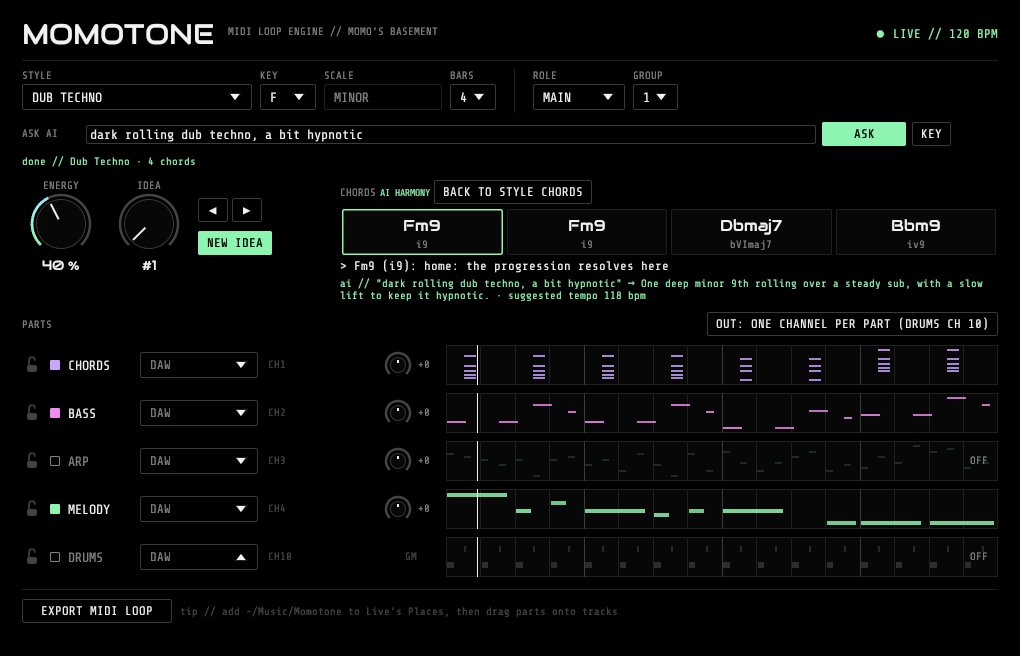
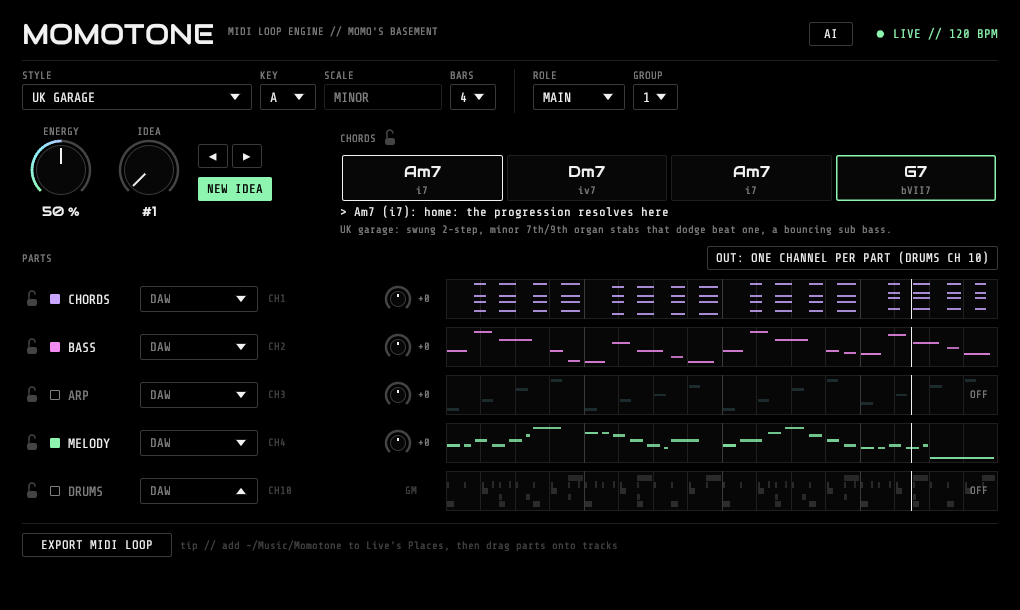
feat(ai): move Ask AI into an optional panel behind a header button
The Ask AI row took a full line of the main screen for something you use
now and then. It now lives in a floating panel opened by a small AI
button next to the tempo: closed by default, it closes on Escape, a click
outside, or once Claude's chords are set. The answer is picked up even
with the panel closed, and the button shows "ai ..." while Claude thinks.
The window goes back to its previous height.

Claude-Session: https://claude.ai/code/session_01C857HpawJoWnTXay7JN1eX

diff --git a/crates/momotone-plugin/src/editor.rs b/crates/momotone-plugin/src/editor.rs
@@ -24,7 +24,7 @@ use std::sync::Arc;
 use std::time::{Duration, Instant};
 
 pub const WIDTH: u32 = 1020;
-pub const HEIGHT: u32 = 656;
+pub const HEIGHT: u32 = 610;
 
 const BG: Color32 = Color32::from_rgb(0x00, 0x00, 0x00);
 const PANEL: Color32 = Color32::from_rgb(0x07, 0x07, 0x07);
@@ -94,6 +94,10 @@ type AiReply = Arc<std::sync::Mutex<Option<Result<momotone_engine::PatternSpec, 
 /// The AI prompt box.
 #[derive(Default)]
 struct AskUi {
+    /// The AI panel is open (it's optional: closed, nothing of it shows on the main screen).
+    open: bool,
+    /// Where the header's AI button is, to hang the panel under it.
+    anchor: Option<Rect>,
     prompt: String,
     key_input: String,
     editing_key: bool,
@@ -232,7 +236,7 @@ fn draw(ctx: &egui::Context, setter: &ParamSetter, data: &mut EditorData, params
     egui::CentralPanel::default().frame(frame).show(ctx, |ui| {
         ui.spacing_mut().item_spacing = vec2(8.0, 8.0);
         let tempo_hint = data.cache.as_ref().map_or(120.0, |c| c.1.tempo);
-        header(ui, tempo_hint, shared);
+        header(ui, tempo_hint, shared, (!follower).then_some(&mut data.ask));
         rule(ui);
 
         let cached = view.and(data.cache.clone());
@@ -263,9 +267,6 @@ fn draw(ctx: &egui::Context, setter: &ParamSetter, data: &mut EditorData, params
             return;
         };
 
-        if !follower {
-            ask_row(ui, setter, params, &mut data.ask);
-        }
         ui.add_space(4.0);
         if follower {
             follower_body(ui, setter, data, params, &plan, &pattern, &settings, part, shared, hw);
@@ -273,6 +274,13 @@ fn draw(ctx: &egui::Context, setter: &ParamSetter, data: &mut EditorData, params
             main_body(ui, setter, data, params, &plan, &pattern, &settings, shared, hw);
         }
     });
+
+    if !follower {
+        poll_ask(ctx, setter, params, &mut data.ask);
+        if data.ask.open {
+            ask_panel(ctx, &mut data.ask);
+        }
+    }
 }
 
 fn rule(ui: &mut Ui) {
@@ -280,7 +288,7 @@ fn rule(ui: &mut Ui) {
     ui.painter().rect_filled(r, 0.0_f32, LINE);
 }
 
-fn header(ui: &mut Ui, tempo_hint: f64, shared: &UiShared) {
+fn header(ui: &mut Ui, tempo_hint: f64, shared: &UiShared, ask: Option<&mut AskUi>) {
     ui.horizontal(|ui| {
         ui.label(RichText::new("MOMOTONE").font(display(28.0)).color(TEXT));
         ui.add_space(6.0);
@@ -296,6 +304,15 @@ fn header(ui: &mut Ui, tempo_hint: f64, shared: &UiShared) {
                 ui.painter().circle_filled(r.center(), 3.5, MINT);
             } else {
                 ui.label(caps(&format!("signal acquisition... // {tempo:.0} bpm"), 12.0, DIM));
+            }
+            if let Some(a) = ask {
+                ui.add_space(14.0);
+                let label = if a.pending.is_some() { "ai ..." } else { "ai" };
+                let r = btn(ui, label, a.open, MINT, 44.0).on_hover_text("Ask AI (optional): describe a vibe, Claude sets the style, key, energy and chords");
+                if r.clicked() {
+                    a.open = !a.open;
+                }
+                a.anchor = Some(r.rect);
             }
         });
     });
@@ -413,11 +430,9 @@ fn link_selectors(ui: &mut Ui, setter: &ParamSetter, params: &MomotoneParams, fo
 
 // ------------------------------------------------------------------ AI prompt
 
-fn ask_row(ui: &mut Ui, setter: &ParamSetter, params: &MomotoneParams, a: &mut AskUi) {
-    let has_key = *a
-        .has_key
-        .get_or_insert_with(|| ai::load_config().api_key.is_some());
-
+/// Picks up Claude's answer (also with the panel closed): sets the style, key, energy, bars
+/// and the progression.
+fn poll_ask(ctx: &egui::Context, setter: &ParamSetter, params: &MomotoneParams, a: &mut AskUi) {
     // An answer came back: set the style, key, energy, bars and the progression.
     if let Some((prompt, slot)) = &a.pending {
         let done = slot.lock().ok().and_then(|mut s| s.take());
@@ -440,103 +455,113 @@ fn ask_row(ui: &mut Ui, setter: &ParamSetter, params: &MomotoneParams, a: &mut A
                         if let Ok(mut h) = params.ai.write() {
                             *h = Some(applied.harmony);
                         }
-                        (
-                            format!("done // {} · {n} chords", STYLES[applied.style].label),
-                            true,
-                        )
+                        // Done: the chord strip shows the result, the panel gets out of the way.
+                        a.open = false;
+                        (format!("done // {} · {n} chords", STYLES[applied.style].label), true)
                     }
                     Err(e) => (e, false),
                 },
             );
         } else {
-            ui.ctx().request_repaint();
+            ctx.request_repaint();
         }
     }
+}
 
-    ui.horizontal(|ui| {
-        ui.spacing_mut().item_spacing.x = 6.0;
-        let (r, _) = ui.allocate_exact_size(vec2(58.0, 26.0), Sense::hover());
-        ui.painter().text(
-            r.left_center(),
-            Align2::LEFT_CENTER,
-            "ASK AI",
-            mono(11.0),
-            DIM,
-        );
-
-        if !has_key || a.editing_key {
-            let edit = egui::TextEdit::singleline(&mut a.key_input)
-                .password(true)
-                .hint_text(RichText::new("paste your Claude API key (sk-ant-...)").color(FAINT))
-                .font(mono(13.0))
-                .desired_width(340.0);
-            let resp = ui.add(edit);
-            let save = btn(ui, "save key", true, MINT, 0.0).clicked()
-                || (resp.lost_focus() && ui.input(|i| i.key_pressed(egui::Key::Enter)));
-            if save && !a.key_input.trim().is_empty() {
-                a.status = Some(match ai::save_api_key(&a.key_input) {
-                    Ok(_) => ("key saved on this computer (not in your set)".into(), true),
-                    Err(e) => (format!("couldn't save the key: {e}"), false),
+/// The optional AI panel, floating under the header's AI button.
+fn ask_panel(ctx: &egui::Context, a: &mut AskUi) {
+    let has_key = *a.has_key.get_or_insert_with(|| ai::load_config().api_key.is_some());
+    let w = 560.0;
+    let pos = a.anchor.map_or(Pos2::new(WIDTH as f32 - w - 22.0, 60.0), |r| Pos2::new(r.right() - w, r.bottom() + 8.0));
+    let resp = egui::Area::new(egui::Id::new("ask-ai"))
+        .order(egui::Order::Foreground)
+        .fixed_pos(pos)
+        .show(ctx, |ui| {
+            egui::Frame::NONE.fill(BG).stroke(Stroke::new(1.0_f32, MINT)).inner_margin(egui::Margin::same(14)).show(ui, |ui| {
+                ui.set_width(w - 28.0);
+                ui.spacing_mut().item_spacing = vec2(6.0, 8.0);
+                ui.horizontal(|ui| {
+                    ui.label(caps("ask ai // optional", 12.0, MINT));
+                    ui.with_layout(Layout::right_to_left(Align::Center), |ui| {
+                        if btn(ui, "close", false, MINT, 0.0).clicked() {
+                            a.open = false;
+                        }
+                    });
                 });
-                a.key_input.clear();
-                a.editing_key = false;
-                a.has_key = None;
-            }
-            if has_key && btn(ui, "cancel", false, MINT, 0.0).clicked() {
-                a.editing_key = false;
-            }
-            if !has_key {
-                ui.label(caps("get one at platform.claude.com", 10.0, FAINT));
-            }
-        } else {
-            let busy = a.pending.is_some();
-            let field = egui::TextEdit::singleline(&mut a.prompt)
-                .hint_text(
-                    RichText::new("describe a vibe: dark rolling dub techno, a bit hypnotic")
-                        .color(FAINT),
-                )
-                .font(mono(13.0))
-                .desired_width(ui.available_width() - 190.0);
-            let resp = ui.add_enabled(!busy, field);
-            let go = btn(
-                ui,
-                if busy { "thinking..." } else { "ask" },
-                !busy,
-                MINT,
-                84.0,
-            )
-            .clicked()
-                || (resp.lost_focus() && ui.input(|i| i.key_pressed(egui::Key::Enter)));
-            if go && !busy && !a.prompt.trim().is_empty() {
-                let prompt = a.prompt.trim().to_string();
-                let slot = Arc::new(std::sync::Mutex::new(None));
-                let out = slot.clone();
-                let ctx = ui.ctx().clone();
-                let asked = prompt.clone();
-                std::thread::spawn(move || {
-                    let result = ai::ask(&ai::load_config(), &asked);
-                    if let Ok(mut s) = out.lock() {
-                        *s = Some(result);
+                ui.label(caps("describe a vibe: claude sets style, key, energy and chords. you can always go back to the style's chords.", 10.0, DIM));
+
+                if !has_key || a.editing_key {
+                    ui.horizontal(|ui| {
+                        let edit = egui::TextEdit::singleline(&mut a.key_input)
+                            .password(true)
+                            .hint_text(RichText::new("paste your Claude API key (sk-ant-...)").color(FAINT))
+                            .font(mono(13.0))
+                            .desired_width(ui.available_width() - 170.0);
+                        let resp = ui.add(edit);
+                        let save = btn(ui, "save key", true, MINT, 0.0).clicked() || (resp.lost_focus() && ui.input(|i| i.key_pressed(egui::Key::Enter)));
+                        if save && !a.key_input.trim().is_empty() {
+                            a.status = Some(match ai::save_api_key(&a.key_input) {
+                                Ok(_) => ("key saved on this computer (not in your set)".into(), true),
+                                Err(e) => (format!("couldn't save the key: {e}"), false),
+                            });
+                            a.key_input.clear();
+                            a.editing_key = false;
+                            a.has_key = None;
+                        }
+                        if has_key && btn(ui, "cancel", false, MINT, 0.0).clicked() {
+                            a.editing_key = false;
+                        }
+                    });
+                    if !has_key {
+                        ui.label(caps("needs your own claude api key: get one at platform.claude.com", 10.0, FAINT));
                     }
-                    ctx.request_repaint();
-                });
-                a.pending = Some((prompt, slot));
-                a.status = Some(("asking claude...".into(), true));
-            }
-            if btn(ui, "key", false, MINT, 0.0)
-                .on_hover_text("Change the Claude API key")
-                .clicked()
-            {
-                a.editing_key = true;
-            }
-        }
-    });
-    if let Some((msg, ok)) = &a.status {
-        ui.label(
-            RichText::new(msg)
-                .font(mono(11.0))
-                .color(if *ok { MINT } else { WARN }),
-        );
+                } else {
+                    ui.horizontal(|ui| {
+                        let busy = a.pending.is_some();
+                        let field = egui::TextEdit::singleline(&mut a.prompt)
+                            .hint_text(RichText::new("dark rolling dub techno, a bit hypnotic").color(FAINT))
+                            .font(mono(13.0))
+                            .desired_width(ui.available_width() - 150.0);
+                        let resp = ui.add_enabled(!busy, field);
+                        if a.prompt.is_empty() && !busy {
+                            resp.request_focus();
+                        }
+                        let go = btn(ui, if busy { "thinking..." } else { "ask" }, !busy, MINT, 84.0).clicked()
+                            || (resp.lost_focus() && ui.input(|i| i.key_pressed(egui::Key::Enter)));
+                        if go && !busy && !a.prompt.trim().is_empty() {
+                            let prompt = a.prompt.trim().to_string();
+                            let slot = Arc::new(std::sync::Mutex::new(None));
+                            let out = slot.clone();
+                            let ctx = ui.ctx().clone();
+                            let asked = prompt.clone();
+                            std::thread::spawn(move || {
+                                let result = ai::ask(&ai::load_config(), &asked);
+                                if let Ok(mut s) = out.lock() {
+                                    *s = Some(result);
+                                }
+                                ctx.request_repaint();
+                            });
+                            a.pending = Some((prompt, slot));
+                            a.status = Some(("asking claude...".into(), true));
+                        }
+                        if btn(ui, "key", false, MINT, 0.0).on_hover_text("Change the Claude API key").clicked() {
+                            a.editing_key = true;
+                        }
+                    });
+                }
+                if let Some((msg, ok)) = &a.status {
+                    ui.label(RichText::new(msg).font(mono(11.0)).color(if *ok { MINT } else { WARN }));
+                }
+            });
+        });
+    if ctx.input(|i| i.key_pressed(egui::Key::Escape)) {
+        a.open = false;
+    }
+    // A click outside the panel (but not on the AI button) closes it.
+    let clicked_out = ctx.input(|i| i.pointer.any_click())
+        && ctx.input(|i| i.pointer.interact_pos()).is_some_and(|p| !resp.response.rect.contains(p) && !a.anchor.is_some_and(|r| r.contains(p)));
+    if clicked_out {
+        a.open = false;
     }
 }
 

diff --git a/README.md b/README.md
@@ -44,15 +44,15 @@ Click the **padlock** next to a part to keep it while you browse ideas: *New ide
 - **Lock the bass and the harmony** to keep the bass exactly as it is, note for note, while everything else changes.
 - The counter under *New idea* shows how many things are locked; **Unlock** frees them all. Locks are saved with your Live set, and followers play the main's locked parts too.
 
-## Ask AI: describe a vibe
+## Ask AI (optional): describe a vibe
 
-Type what you hear in your head in the **Ask AI** box and press Enter: *"dark rolling dub techno, a bit hypnotic"*, *"rainy-night garage, a bit soulful"*, *"acid at 4am"*. Claude picks the **style, key, bars and energy**, writes a **chord progression** for it, and the line under the chords says why (and which tempo it suggests).
+Optional, and out of the way until you want it: click **AI** at the top right, type what you hear in your head and press Enter: *"dark rolling dub techno, a bit hypnotic"*, *"rainy-night garage, a bit soulful"*, *"acid at 4am"*. Claude picks the **style, key, bars and energy**, writes a **chord progression** for it, and the line under the chords says why (and which tempo it suggests).
 
 - The chords Claude wrote replace the style's own: the header shows **AI HARMONY**. *New idea* and the parts still work as usual (grooves, bass, melody come from the style). **Back to style chords** returns to the style's progressions.
 - The AI harmony is saved with your Live set, and followers play it too.
 - Claude never writes notes, only a small JSON spec that the engine checks; a reply that isn't usable music is refused, so you always get a playable loop.
 
-**API key.** Ask AI calls the Claude API with your own key (create one at [console.anthropic.com](https://console.anthropic.com)). The first time, the box asks for it; click **key** later to change it. It's stored only on your computer, readable only by you:
+**API key.** Ask AI calls the Claude API with your own key (create one at [console.anthropic.com](https://console.anthropic.com)). Without a key Momotone works exactly the same, the AI panel just asks for one; paste it there the first time, and click **key** later to change it. It's stored only on your computer, readable only by you:
 
 | OS | file |
 |---|---|
@@ -70,7 +70,7 @@ The `ANTHROPIC_API_KEY` environment variable overrides the file. The default mod
 - **Energy** knob: *laid back* → *peak time*. **Idea** knob: browse ideas; ◀ ▶ step one by one, **New idea** jumps to a random one. Knobs: drag up/down, Shift for fine, double-click to reset.
 - **Chords**: hover a chord to read what it does; the one playing is outlined in mint.
 - **Parts**: click the name to switch a part on/off, small knob = octave, then its notes with the playhead.
-- **Ask AI**: describe a vibe, Claude sets everything (see above).
+- **AI** (top right, optional): opens the Ask AI panel; Escape or a click outside closes it.
 - **Role / Group**: main or follower (see the workflow below).
 - **Export MIDI loop**: writes a folder to `~/Music/Momotone/` (style, key, tempo, energy, idea) with one `.mid` per part plus `All parts.mid`. Add that folder to Live's *Places* once and every export shows up in the browser.
 
